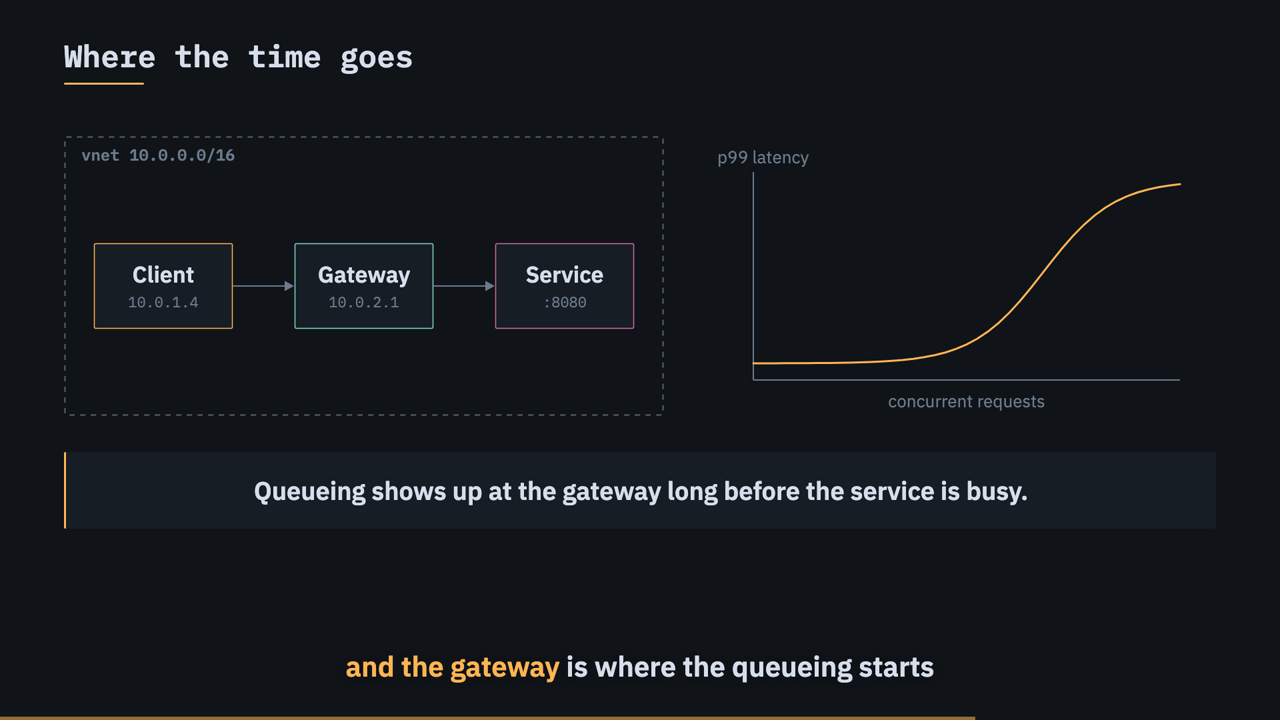
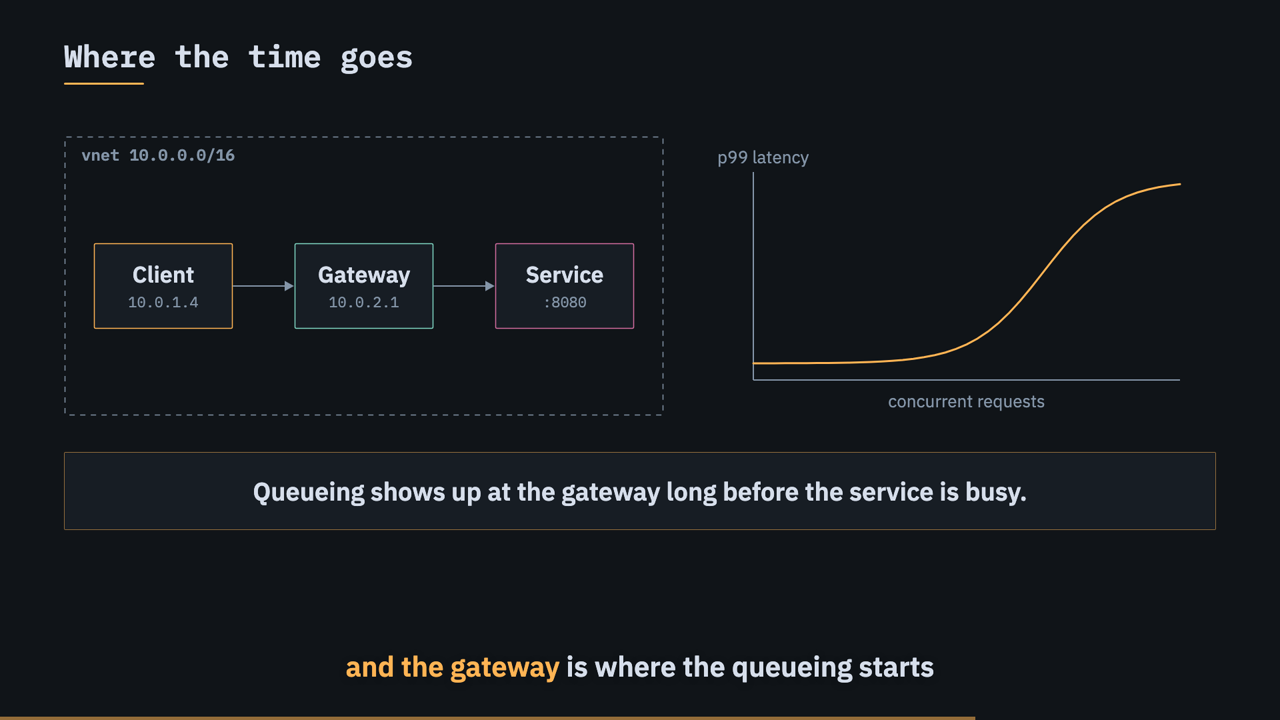
Render scenes whose word timings are missing; re-render preset samples
SceneGate held a scene back until its words file loaded, but useJson returns null both while loading and on a 404, so a scene without word timings (the preset samples, an unvoiced scene) rendered blank forever. A missing file now resolves to an empty list, so only a file that is still loading gates the scene. The preset samples are re-rendered with this release's terminal muted ink, Callout border and CodePanel highlight.

Changed region(s): [[0.1875, 0.6722, 0.8125, 0.7028], [0.7188, 0.55, 0.8125, 0.5806], [0.5938, 0.2139, 0.625, 0.2444]]

diff --git a/template/src/chapters/Chapter.tsx b/template/src/chapters/Chapter.tsx
@@ -16,7 +16,11 @@ import type {WordToken} from '../manifest/types';
  * on at once and the layout sweep reports false overlaps.
  */
 const SceneGate: React.FC<{sceneId: string; silent: boolean; children: React.ReactNode}> = ({sceneId, silent, children}) => {
-  const words = useJson<WordToken[]>(silent ? null : `audio/${sceneId}.words.json`);
+  // A missing words file resolves to [] (useJson's 404 fallback), so a scene
+  // whose timings do not exist (the preset samples, a scene not yet voiced)
+  // renders; only a file that is still loading holds the scene back. Without
+  // the fallback a missing file gated the scene forever and it rendered blank.
+  const words = useJson<WordToken[]>(silent ? null : `audio/${sceneId}.words.json`, []);
   // a scene with no narration (a dev fixture or preview) renders at once
   return silent || words ? <>{children}</> : null;
 };
